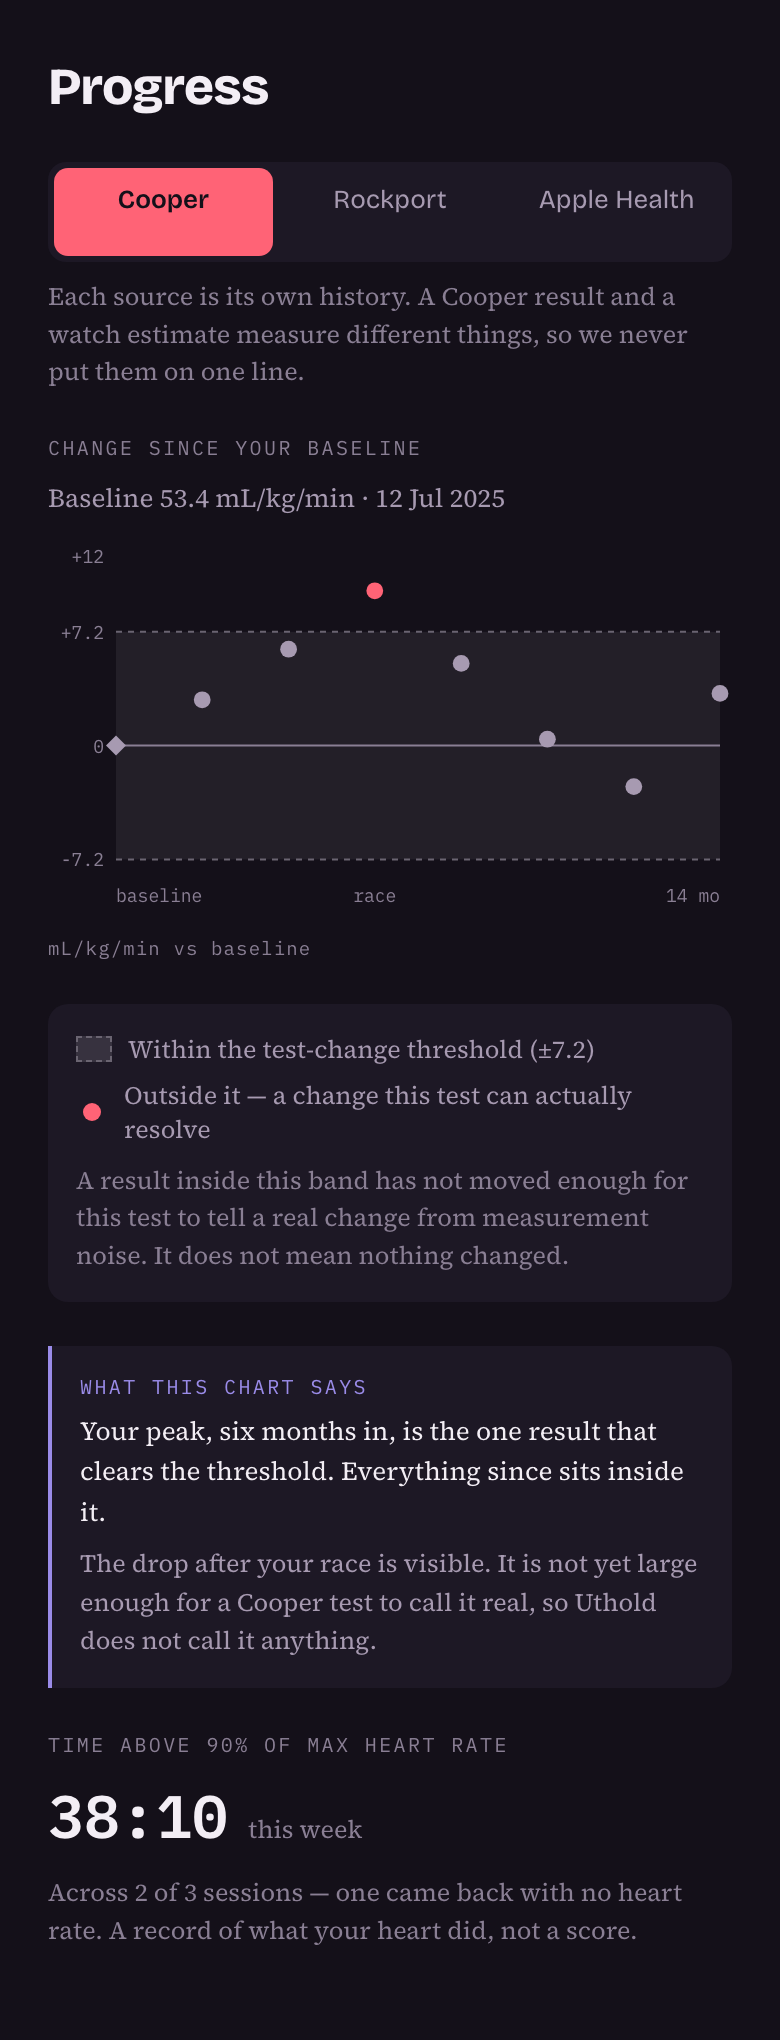
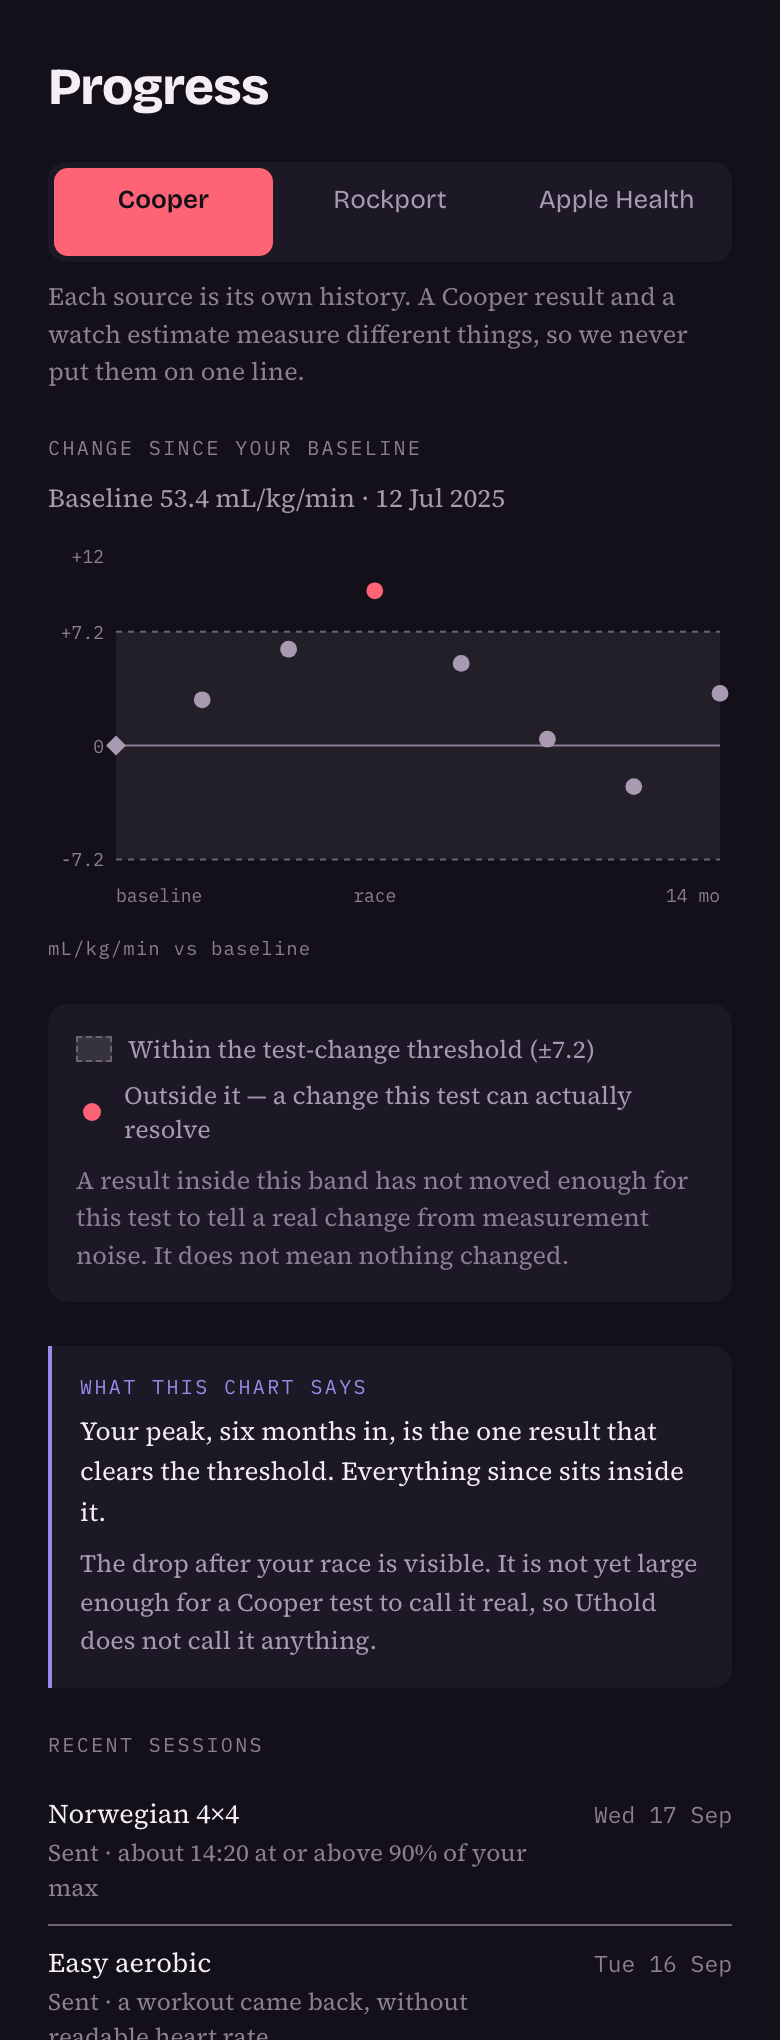
Name the stationary-cycling-only sprint session; re-shoot Progress and describe it in alt text

Changed region(s): [[0.0615, 0.8338, 0.8615, 1.0]]

diff --git a/index.html b/index.html
@@ -112,7 +112,7 @@
     </div>
     <div class="showcase" style="margin-top:clamp(32px,5vw,56px)">
       <img src="img/Progress.png" width="390" height="1020"
-           alt="The Progress screen: change since baseline over 14 months, plotted as separate dots with no connecting line. A shaded band marks plus or minus 7.2, the Cooper test's change threshold. One point, the peak six months in, sits above the band; every later point including the post-race decline sits inside it.">
+           alt="The Progress screen: change since baseline over 14 months, plotted as separate dots with no connecting line. A shaded band marks plus or minus 7.2, the Cooper test's change threshold. One point, the peak six months in, sits above the band; every later point including the post-race decline sits inside it. Below, a dated list of recent sessions: a Norwegian 4x4 sent, with about 14 minutes 20 above 90 percent of max; an easy aerobic session whose workout came back without readable heart rate; and a short-interval session marked not today. A line underneath reads that the app records what was sent to the watch, not what you finished.">
       <dl>
         <dt>The shaded band marks what the test cannot resolve</dt>
         <dd>Fourteen months, one full cycle, plotted as separate results rather than a curve. The

diff --git a/faq.html b/faq.html
@@ -91,9 +91,13 @@
     actual maximum on a bike — which would turn a hard-but-doable interval into one nobody can
     complete. So we do not carry targets across modalities automatically, and we do not apply a
     universal offset, because there isn’t a defensible one.</p>
-    <p style="margin-bottom:0">Where a modality-specific target exists, we use it. Where one
-    doesn’t, the session falls back to effort-based guidance within whatever safety restrictions
-    apply to you. Effort guidance does not guarantee a particular percentage of maximum.</p>
+    <p>Where a modality-specific target exists, we use it. Where one doesn’t, the session falls
+    back to effort-based guidance within whatever safety restrictions apply to you. Effort guidance
+    does not guarantee a particular percentage of maximum.</p>
+    <p style="margin-bottom:0">One session is the exception, and it is tied to a single machine:
+    the two-effort all-out sprint session is <b>stationary cycling only</b>, because a stationary
+    bike is what the study behind it used and an all-out effort is the worst place to improvise a
+    substitute. Everything else travels.</p>
   </details>
   <details>
     <summary>Is this medical advice?</summary>
